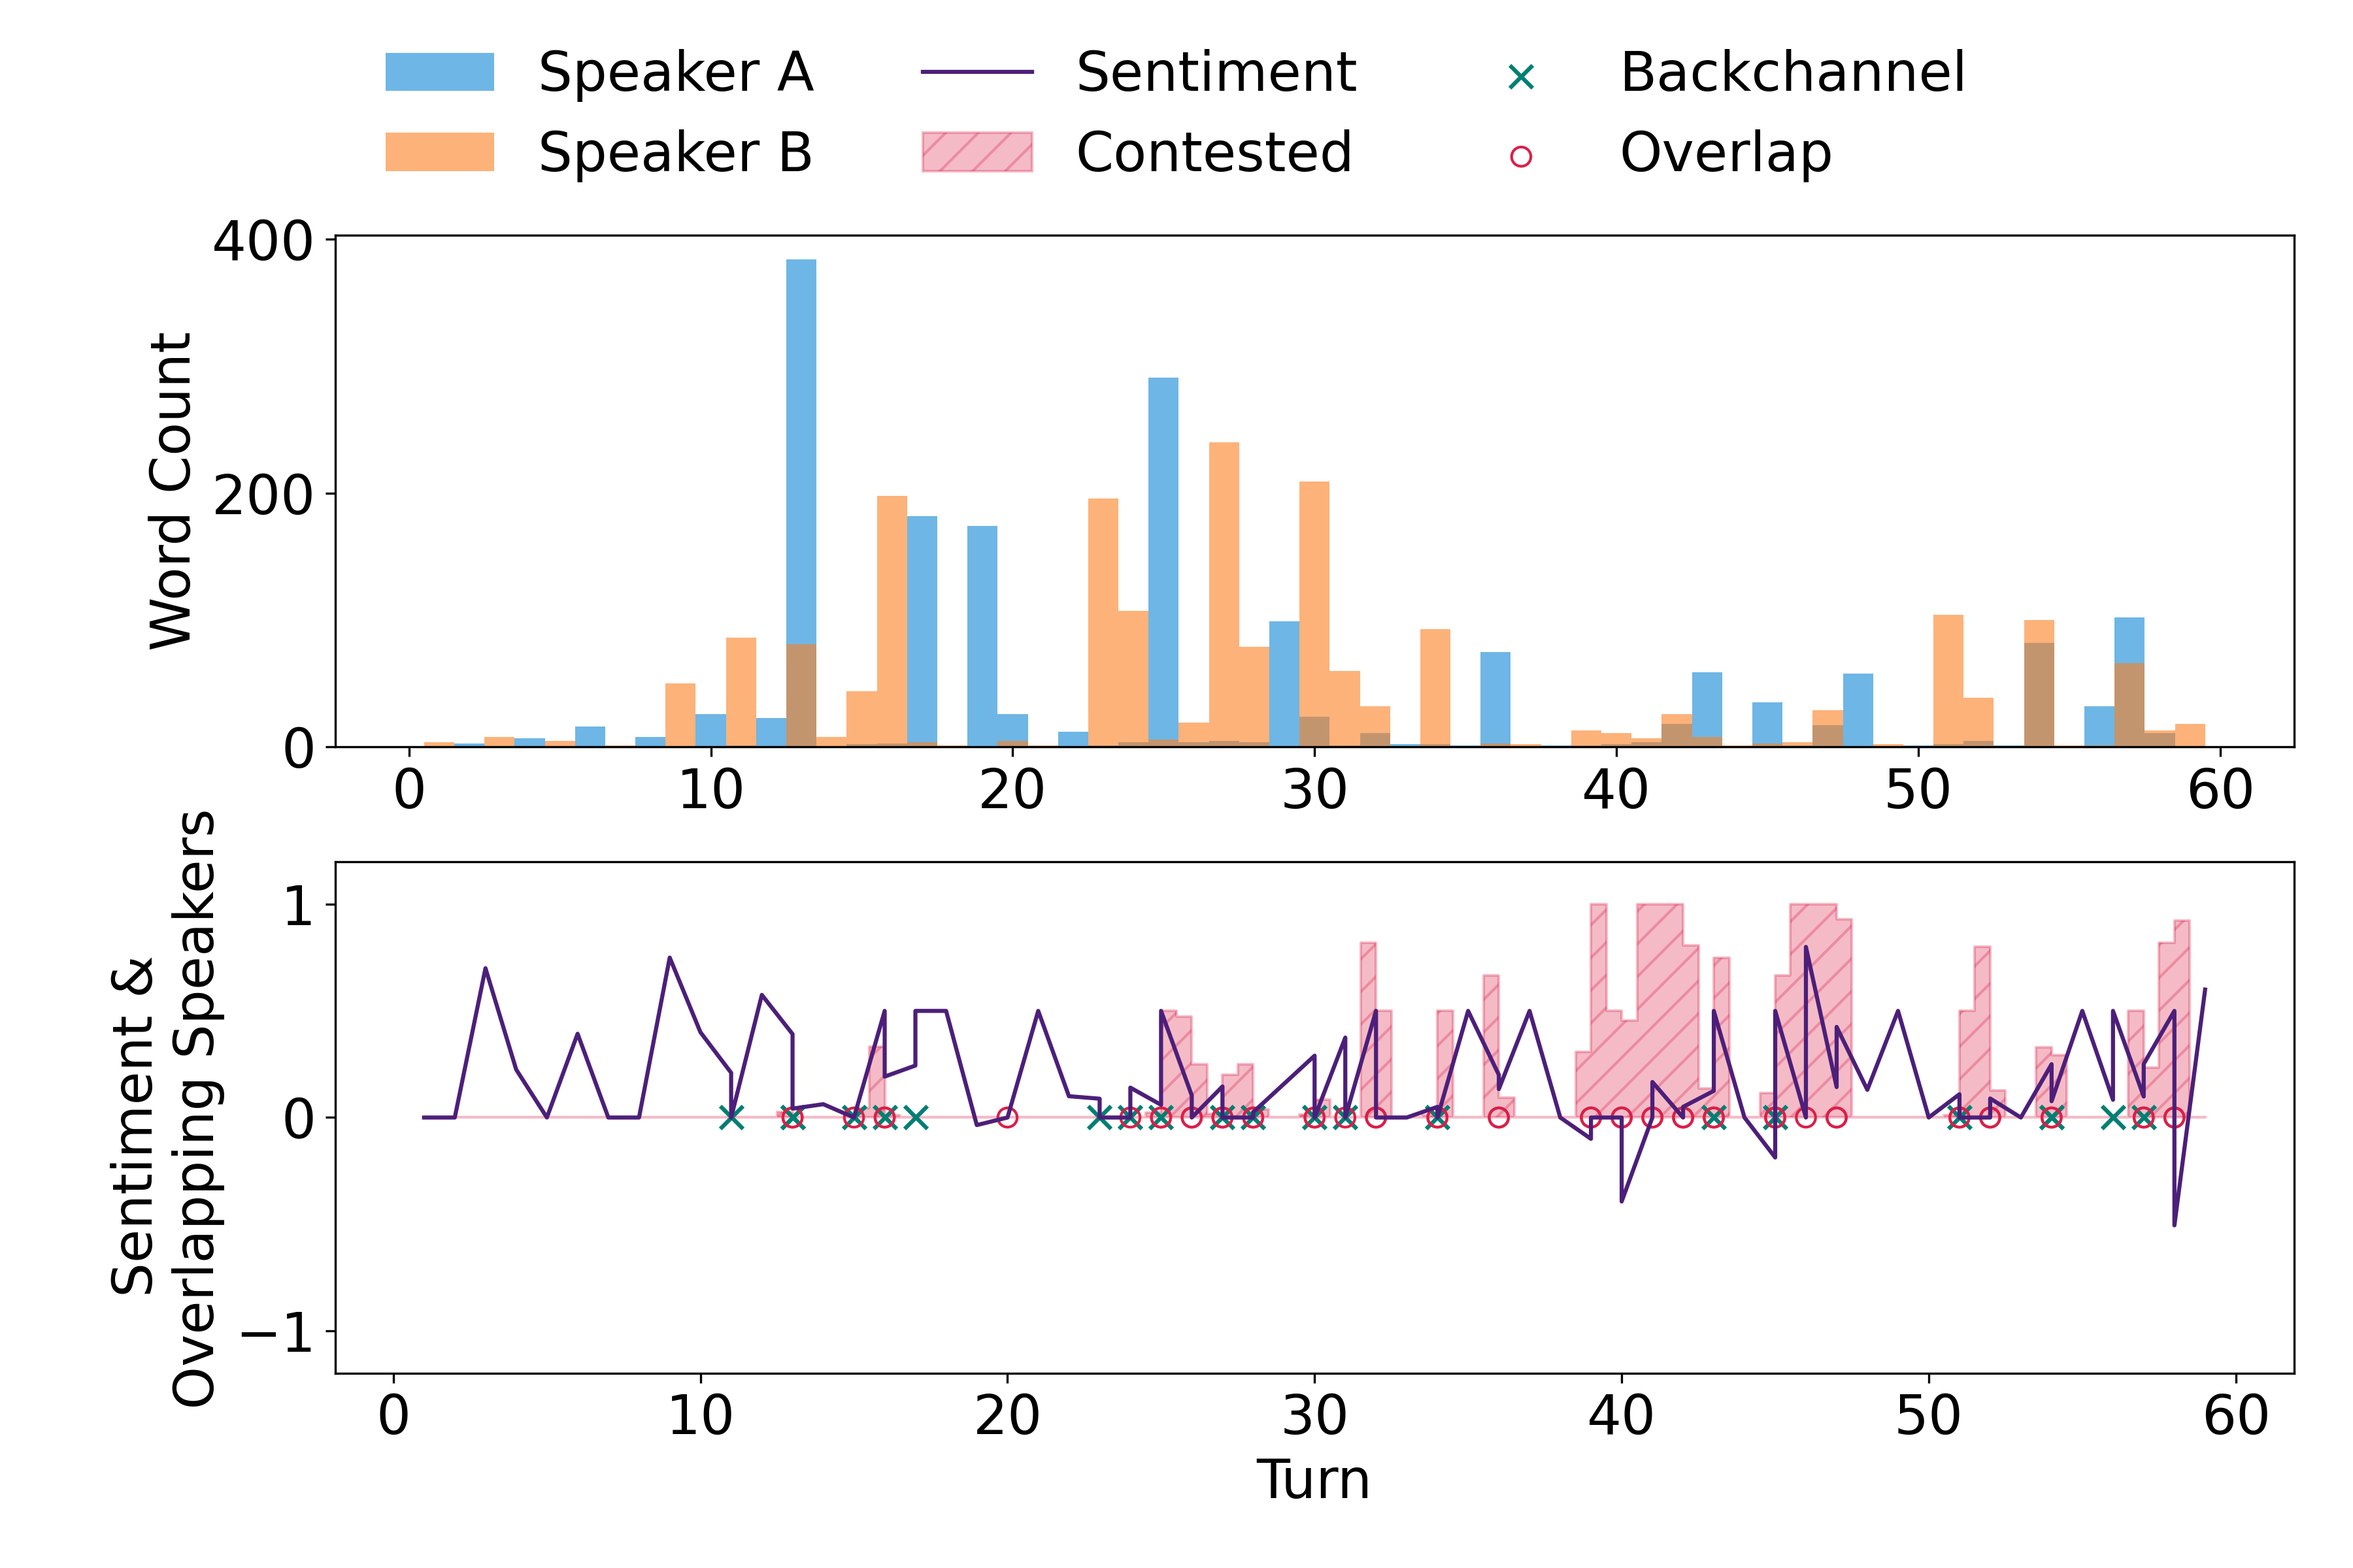
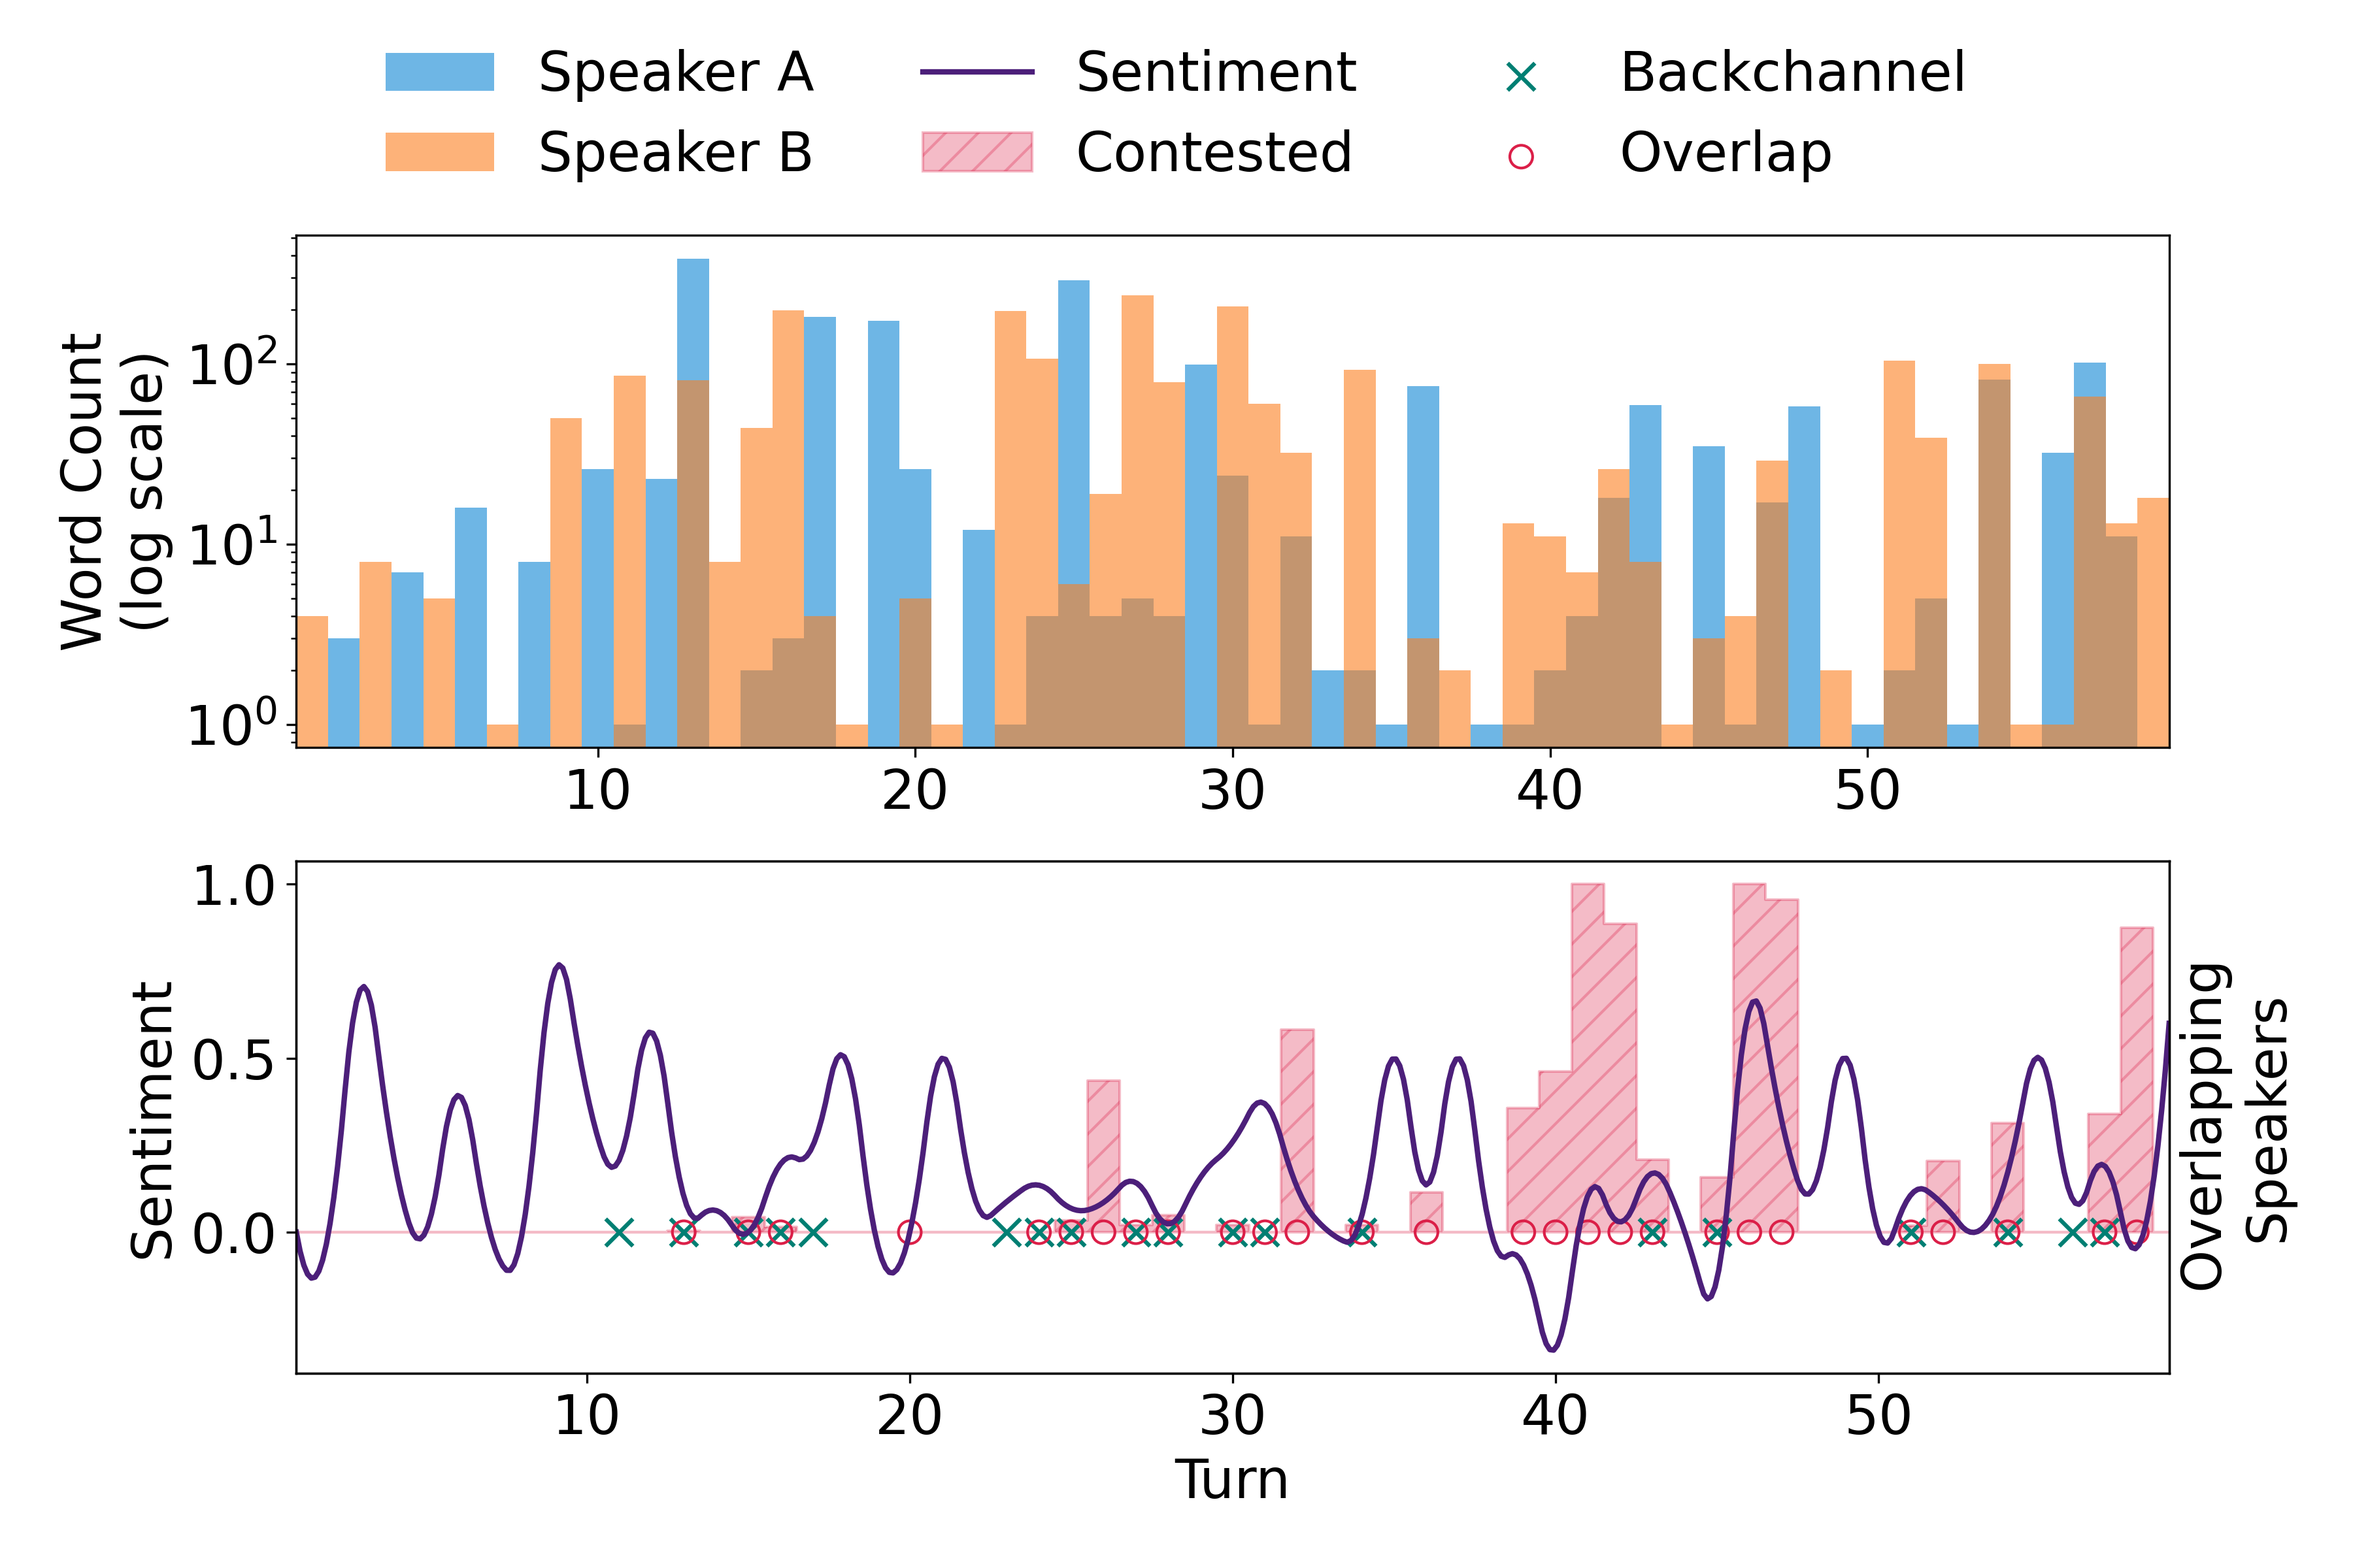
xxxx

diff --git a/Python/sentiment_time_plot.py b/Python/sentiment_time_plot.py
@@ -5,36 +5,50 @@ import pandas as pd
 import numpy as np
 import matplotlib.colors as mcolors
 import matplotlib.cm as cm
+from scipy.interpolate import interp1d
 
-def plot_sentiment_time_series(turn_data):
+def plot_sentiment_time_series(word_level_data):
     
     # Create a binary column for "Contest" (1 if contested, 0 if uncontested)
-    turn_data['is_contested'] = turn_data['Contest'].apply(lambda x: 1 if x == 'contested' else 0)
-    
-    turn_data['Duration'] = turn_data['End Time'] - turn_data['Start Time']
+    word_level_data['is_contested'] = word_level_data['Contest'].apply(lambda x: 1 if x == 'contested' else 0)
+    word_level_data['Duration'] = word_level_data['End Time'] - word_level_data['Start Time']
 
     # Group by 'Speaker' and 'Turn' and perform aggregations
-    turn_data = turn_data.groupby(['Speaker', 'Turn']).agg(
+    turn_speaker_data = turn_data.groupby(['Speaker', 'Turn']).agg(
         start_time=('Start Time', 'min'),
         end_time=('End Time', 'max'),
         avg_word_count=('word_count', 'mean'),
         avg_sentiment=('Sentiment', 'mean'),
         count_backchannels=('Backchannel', 'sum'),
-        count_overlaps=('Overlap', 'sum'),
-        prop_contested=('is_contested', 'mean'),
+        mean_overlaps=('Overlap', 'mean'),
+        mean_contested=('is_contested', 'mean'),
         avg_duration=('Duration', 'mean')
     ).reset_index()
 
+    turn_speaker_data['midTime'] = (turn_speaker_data['start_time'] + turn_speaker_data['end_time']) / 2
+    # turn_speaker_data['Turn_duration'] = turn_speaker_data['end_time'] - turn_speaker_data['start_time']
+    turn_speaker_data['Turn_duration'] = (turn_speaker_data['start_time'] + turn_speaker_data['end_time']) / turn_speaker_data['midTime']
+    turn_speaker_data = turn_speaker_data.sort_values(by='midTime')
     
-    turn_data['Time'] = (turn_data['start_time'] + turn_data['end_time']) / 2
-    
-    turn_data = turn_data.sort_values(by='Time')
+    # Group by 'Turn' and perform aggregations
+    turn_level_data = turn_data.groupby(['Turn']).agg(
+        start_time=('Start Time', 'min'),
+        end_time=('End Time', 'max'),
+        avg_word_count=('word_count', 'mean'),
+        avg_sentiment=('Sentiment', 'mean'),
+        count_backchannels=('Backchannel', 'sum'),
+        mean_overlaps=('Overlap', 'mean'),
+        mean_contested=('is_contested', 'mean'),
+        avg_duration=('Duration', 'mean')
+    ).reset_index()
+
+    turn_level_data['Time'] = (turn_level_data['start_time'] + turn_level_data['end_time']) / 2
+    turn_level_data = turn_level_data.sort_values(by='Time')
 
 
     # Prepare the DataFrame by calculating midpoint times for each turn
-    turn_data_A = turn_data[turn_data['Speaker'] == 'A']
-    turn_data_B = turn_data[turn_data['Speaker'] == 'B']
-    
+    turn_speaker_data_A = turn_speaker_data[turn_speaker_data['Speaker'] == 'A']
+    turn_speaker_data_B = turn_speaker_data[turn_speaker_data['Speaker'] == 'B']
 
     # Initialize a figure
     fig, (ax1, ax2) = plt.subplots(2, 1, layout='constrained', figsize=(12, 8))
@@ -47,8 +61,8 @@ def plot_sentiment_time_series(turn_data):
     
 
     ax1.bar(
-        turn_data_A['Turn'], 
-        turn_data_A['avg_word_count'],
+        turn_speaker_data_A['Turn'], 
+        turn_speaker_data_A['avg_word_count'],
         align = 'center',
         width = 1,
         edgecolor='none',
@@ -59,8 +73,8 @@ def plot_sentiment_time_series(turn_data):
     
 
     ax1.bar(
-        turn_data_B['Turn'], 
-        turn_data_B['avg_word_count'],
+        turn_speaker_data_B['Turn'], 
+        turn_speaker_data_B['avg_word_count'],
         align = 'center',
         width = 1,
         edgecolor='none',
@@ -69,31 +83,36 @@ def plot_sentiment_time_series(turn_data):
         alpha = .6
     )
     
-       
+    x_new = np.linspace(turn_level_data['Turn'].min(), turn_level_data['Turn'].max(),500)
+    f = interp1d(turn_level_data['Turn'], turn_level_data['avg_sentiment'], kind='quadratic')
+    y_smooth=f(x_new)
     
-    ax2.plot(turn_data['Turn'],
-                turn_data['avg_sentiment'],
-                label="Sentiment",
-                color='#4C1F7A')
+    ax2.plot(x_new,
+             y_smooth,
+             label="Sentiment",
+             color='#4C1F7A',
+             linewidth=2)
     
-    ax2.fill_between(turn_data['Turn'], turn_data['prop_contested'],
+    ax3 = ax2.twinx()
+    
+    ax2.fill_between(turn_level_data['Turn'], turn_level_data['mean_contested'],
              label='Contested',
              alpha=0.3, step='mid', hatch='//', color = '#db1f48', facecolor = '#db1f48')
     
-    mask_Back = turn_data['count_backchannels'] != 0
+    mask_Back = turn_level_data['count_backchannels'] != 0
     
-    ax2.scatter(turn_data['Turn'][mask_Back], turn_data['count_backchannels'][mask_Back] * 0,
+    ax2.scatter(turn_level_data['Turn'][mask_Back], turn_level_data['count_backchannels'][mask_Back] * 0,
                  label='Backchannel',
-                 s = 70,
+                 s = 100,
                  marker = 'x',
                  color='#007F73')
     
-    mask_Over = turn_data['count_overlaps'] != 0
+    mask_Over = turn_level_data['mean_overlaps'] != 0
     
-    ax2.scatter(turn_data['Turn'][mask_Over], turn_data['count_overlaps'][mask_Over] * 0,
+    ax2.scatter(turn_level_data['Turn'][mask_Over], turn_level_data['mean_overlaps'][mask_Over] * 0,
                  label='Overlap',
                  marker = 'o',
-                 s = 50,
+                 s = 70,
                  facecolors='none',
                  color='#db1f48')
     
@@ -101,9 +120,16 @@ def plot_sentiment_time_series(turn_data):
     # Customize the plot
     # fig.title('Conversational Dynamics by Speaker', pad=100)
     ax2.set_xlabel('Turn', fontsize = 20)
-    ax1.set_ylabel('Word Count', fontsize = 20)
-    ax2.set_ylabel('Sentiment & \n Overlapping Speakers', fontsize = 20)
-    ax2.set_ylim(-1.2, 1.2)
+    ax1.set_ylabel('Word Count\n(log scale)', fontsize = 20)
+    ax1.set_yscale('log')
+    ax1.margins(x=0)
+    ax2.set_ylabel('Sentiment', fontsize = 20)
+    ax2.margins(x=0)
+    ax3.set_ylabel('Overlapping \nSpeakers', fontsize = 20)
+    ax3.set_yticklabels([])
+    ax3.set_yticks([])
+    ax3.margins(x=0)
+    # ax2.set_ylim(-1.2, 1.2)
     ax1.tick_params(axis='both', which='major', labelsize=20)
     ax2.tick_params(axis='both', which='major', labelsize=20)
     fig.legend(loc='upper center',
